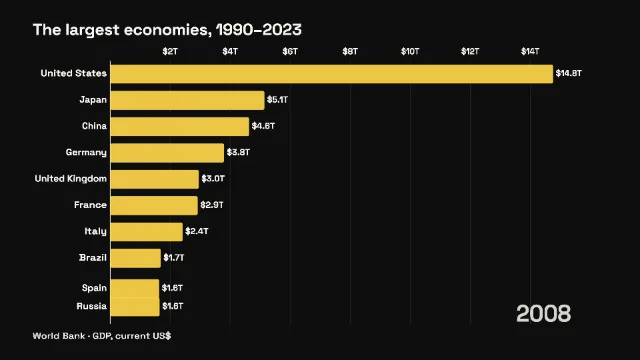
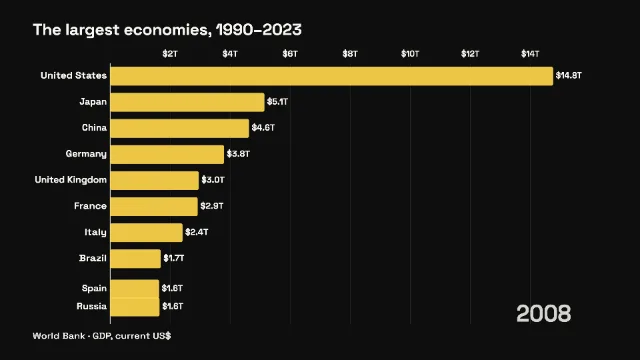
fix(figures): leading between wrapped title lines

diff --git a/src/lib/utils/figure-scene-prepare.ts b/src/lib/utils/figure-scene-prepare.ts
@@ -192,7 +192,9 @@ export function prepareFigure(figure: Figure, orientation: VideoOrientation): Pr
 	const measure = (text: string, role: FigureTextRole) =>
 		measureFigureText(text, role, orientation);
 	const titleLines = figure.title ? wrapFigureTitle(figure.title, frame.width, measure) : [];
-	const titleLineHeight = figure.title ? measure(figure.title, 'title').height : 0;
+	// Wrapped lines get leading beyond the role's line box so descenders never
+	// sit on the next line's caps.
+	const titleLineHeight = figure.title ? measure(figure.title, 'title').height * 1.14 : 0;
 	const titleHeight = titleLines.length * titleLineHeight;
 	const sourceHeight = figure.sourceNote ? measure(figure.sourceNote, 'source').height : 0;
 	const gap = Math.min(frame.width, frame.height) * 0.04;
